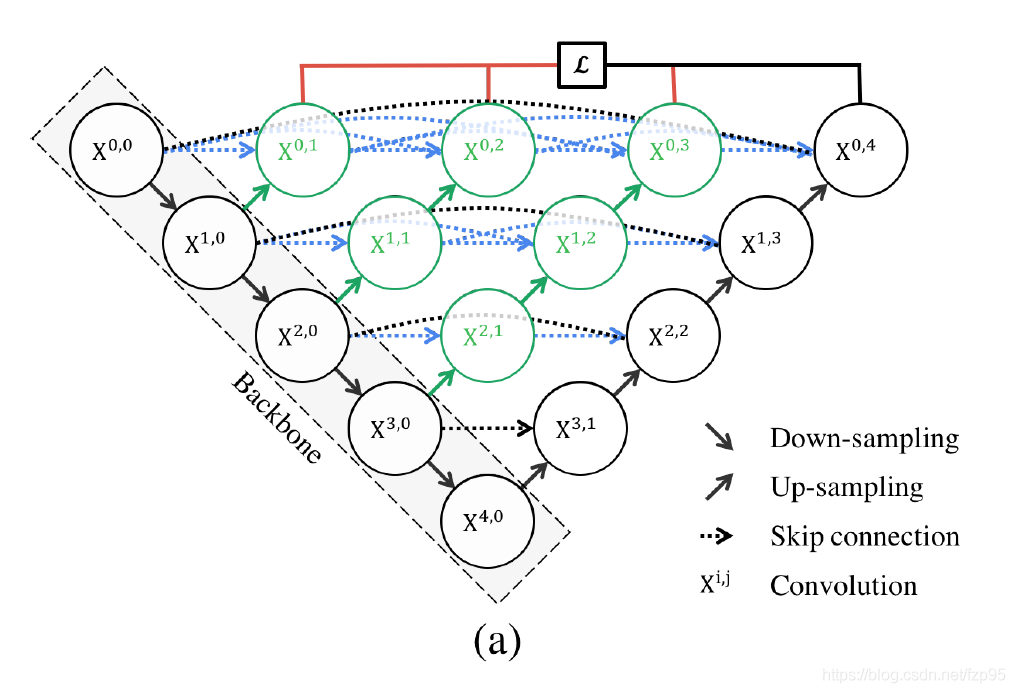
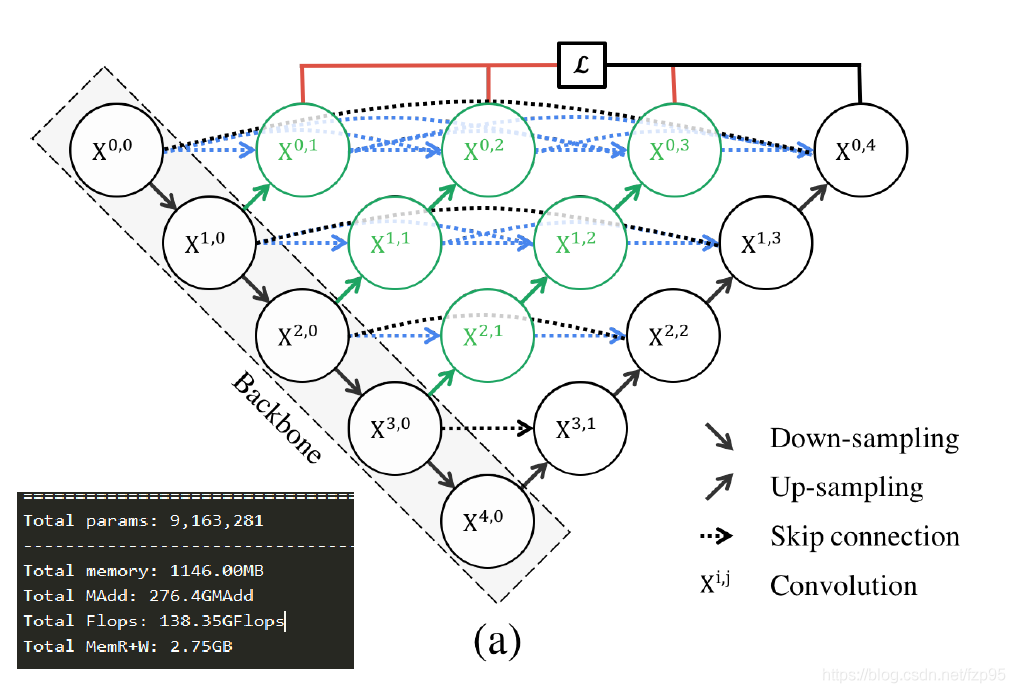
2022年3月8日:更新nested-unet

Changed region(s): [[0.0, 0.697, 0.3665, 0.9697]]

diff --git a/models/unet_nested.py b/models/unet_nested.py
@@ -8,13 +8,31 @@
 
 import torch
 import torch.nn as nn
+from torchstat import stat
+from utils.common import print_models
+from tensorboardX import SummaryWriter
 
 class VGGBlock(nn.Module):
-    def __init__(self):
+    """结构:[conv,bn,relu]*2,[B, in_channels, H, W] ==> [B, out_channels, H, W]"""
+
+    def __init__(self, in_channels, middle_channels,
+                 out_channels, act_func=nn.ReLU(inplace=True)):
         super(VGGBlock, self).__init__()
+        self.act_func = act_func
+        self.conv1 = nn.Conv2d(in_channels, middle_channels, 3, padding=1)
+        self.bn1 = nn.BatchNorm2d(middle_channels)
+        self.conv2 = nn.Conv2d(middle_channels, out_channels, 3, padding=1)
+        self.bn2 = nn.BatchNorm2d(out_channels)
 
     def forward(self, x):
+        out = self.conv1(x)
+        out = self.bn1(out)
+        out = self.act_func(out)
 
+        out = self.conv2(out)
+        out = self.bn2(out)
+        out = self.act_func(out)
+        return out
 
 
 class NestedUNet(nn.Module):
@@ -24,20 +42,76 @@ class NestedUNet(nn.Module):
         self.n_labels = n_labels
         self.deepsupervision = deepsupervision
 
-
         nb_filter = [32, 64, 128, 256, 512]
         self.pool = nn.MaxPool2d(kernel_size=2, stride=2)
         self.up = nn.Upsample(scale_factor=2, mode="bilinear", align_corners=True)
 
+        self.conv0_0 = VGGBlock(in_channels, nb_filter[0], nb_filter[0])
+        self.conv1_0 = VGGBlock(nb_filter[0], nb_filter[1], nb_filter[1])
+        self.conv2_0 = VGGBlock(nb_filter[1], nb_filter[2], nb_filter[2])
+        self.conv3_0 = VGGBlock(nb_filter[2], nb_filter[3], nb_filter[3])
+        self.conv4_0 = VGGBlock(nb_filter[3], nb_filter[4], nb_filter[4])
+
+        self.conv0_1 = VGGBlock(nb_filter[0] + nb_filter[1], nb_filter[0], nb_filter[0])
+        self.conv1_1 = VGGBlock(nb_filter[1] + nb_filter[2], nb_filter[1], nb_filter[1])
+        self.conv2_1 = VGGBlock(nb_filter[2] + nb_filter[3], nb_filter[2], nb_filter[2])
+        self.conv3_1 = VGGBlock(nb_filter[3] + nb_filter[4], nb_filter[3], nb_filter[3])
+
+        self.conv0_2 = VGGBlock(2 * nb_filter[0] + nb_filter[1], nb_filter[0], nb_filter[0])
+        self.conv1_2 = VGGBlock(2 * nb_filter[1] + nb_filter[2], nb_filter[1], nb_filter[1])
+        self.conv2_2 = VGGBlock(2 * nb_filter[2] + nb_filter[3], nb_filter[2], nb_filter[2])
+
+        self.conv0_3 = VGGBlock(3 * nb_filter[0] + nb_filter[1], nb_filter[0], nb_filter[0])
+        self.conv1_3 = VGGBlock(3 * nb_filter[1] + nb_filter[2], nb_filter[1], nb_filter[1])
+
+        self.conv0_4 = VGGBlock(4 * nb_filter[0] + nb_filter[1], nb_filter[0], nb_filter[0])
+
+        if self.deepsupervision:
+            self.final1 = nn.Conv2d(nb_filter[0], self.n_labels, kernel_size=1)
+            self.final2 = nn.Conv2d(nb_filter[0], self.n_labels, kernel_size=1)
+            self.final3 = nn.Conv2d(nb_filter[0], self.n_labels, kernel_size=1)
+            self.final4 = nn.Conv2d(nb_filter[0], self.n_labels, kernel_size=1)
+        else:
+            self.final = nn.Conv2d(nb_filter[0], self.n_labels, kernel_size=1)
 
 
+    def forward(self, input):
+        x0_0 = self.conv0_0(input)
+        x1_0 = self.conv1_0(self.pool(x0_0))  # 通道in_channels=>32,大小变为一半
+        x0_1 = self.conv0_1(torch.cat([x0_0, self.up(x1_0)], 1))  # 在channels出连接
+
+        x2_0 = self.conv2_0(self.pool(x1_0))
+        x1_1 = self.conv1_1(torch.cat([x1_0, self.up(x2_0)], dim=1))
+        x0_2 = self.conv0_2(torch.cat([x0_0, x0_1, self.up(x1_1)], dim=1))
+
+        x3_0 = self.conv3_0(self.pool(x2_0))
+        x2_1 = self.conv2_1(torch.cat([x2_0, self.up(x3_0)], dim=1))
+        x1_2 = self.conv1_2(torch.cat([x1_0, x1_1, self.up(x2_1)], dim=1))
+        x0_3 = self.conv0_3(torch.cat([x0_0, x0_1, x0_2, self.up(x1_2)], dim=1))
+
+        x4_0 = self.conv4_0(self.pool(x3_0))
+        x3_1 = self.conv3_1(torch.cat([x3_0, self.up(x4_0)], dim=1))
+        x2_2 = self.conv2_2(torch.cat([x2_0, x2_1, self.up(x3_1)], dim=1))
+        x1_3 = self.conv1_3(torch.cat([x1_0, x1_1, x1_2, self.up(x2_2)], dim=1))
+        x0_4 = self.conv0_4(torch.cat([x0_0, x0_1, x0_2, x0_3, self.up(x1_3)], dim=1))
+
+        if self.deepsupervision:
+            output1 = self.final1(x0_1)
+            output2 = self.final2(x0_2)
+            output3 = self.final3(x0_3)
+            output4 = self.final4(x0_4)
+            return [output1, output2, output3, output4]
+        else:
+            output = self.final(x0_4)
+            return output
 
 
-    def forward(self,x):
+if __name__ == "__main__":
+    x = torch.randn((2, 1, 512, 512))
+    net = NestedUNet(in_channels=1, n_labels=17, deepsupervision=False)
+    with SummaryWriter("runs_models/nested-unet") as w:
+        w.add_graph(net, x)
+    print_models(net)
+    print(stat(net, (1, 512, 512)))
 
-        return x
 
-if __name__ =="__main__":
-    x = torch.randn((1, 3, 512, 512))
-    pool = nn.MaxPool2d(kernel_size=2, stride=2)
-    print(pool(x).shape)

diff --git a/models/unet.py b/models/unet.py
@@ -122,10 +122,10 @@ class Unet(nn.Module):
 
 
 if __name__ == "__main__":
-    x = torch.randn((1, 3, 512, 512))
-    net = Unet(in_channels=3, n_labels=17)
+    # x = torch.randn((1, 3, 512, 512))
+    net = Unet(in_channels=1, n_labels=17)
     # with SummaryWriter("runs_models/unet") as w:
     #     w.add_graph(net, x)
     # print_models(net)
-    # print(stat(net, (3,512,512)))
-    print(net(x).shape)
+    print(stat(net, (1,512,512)))
+    # print(net(x).shape)
